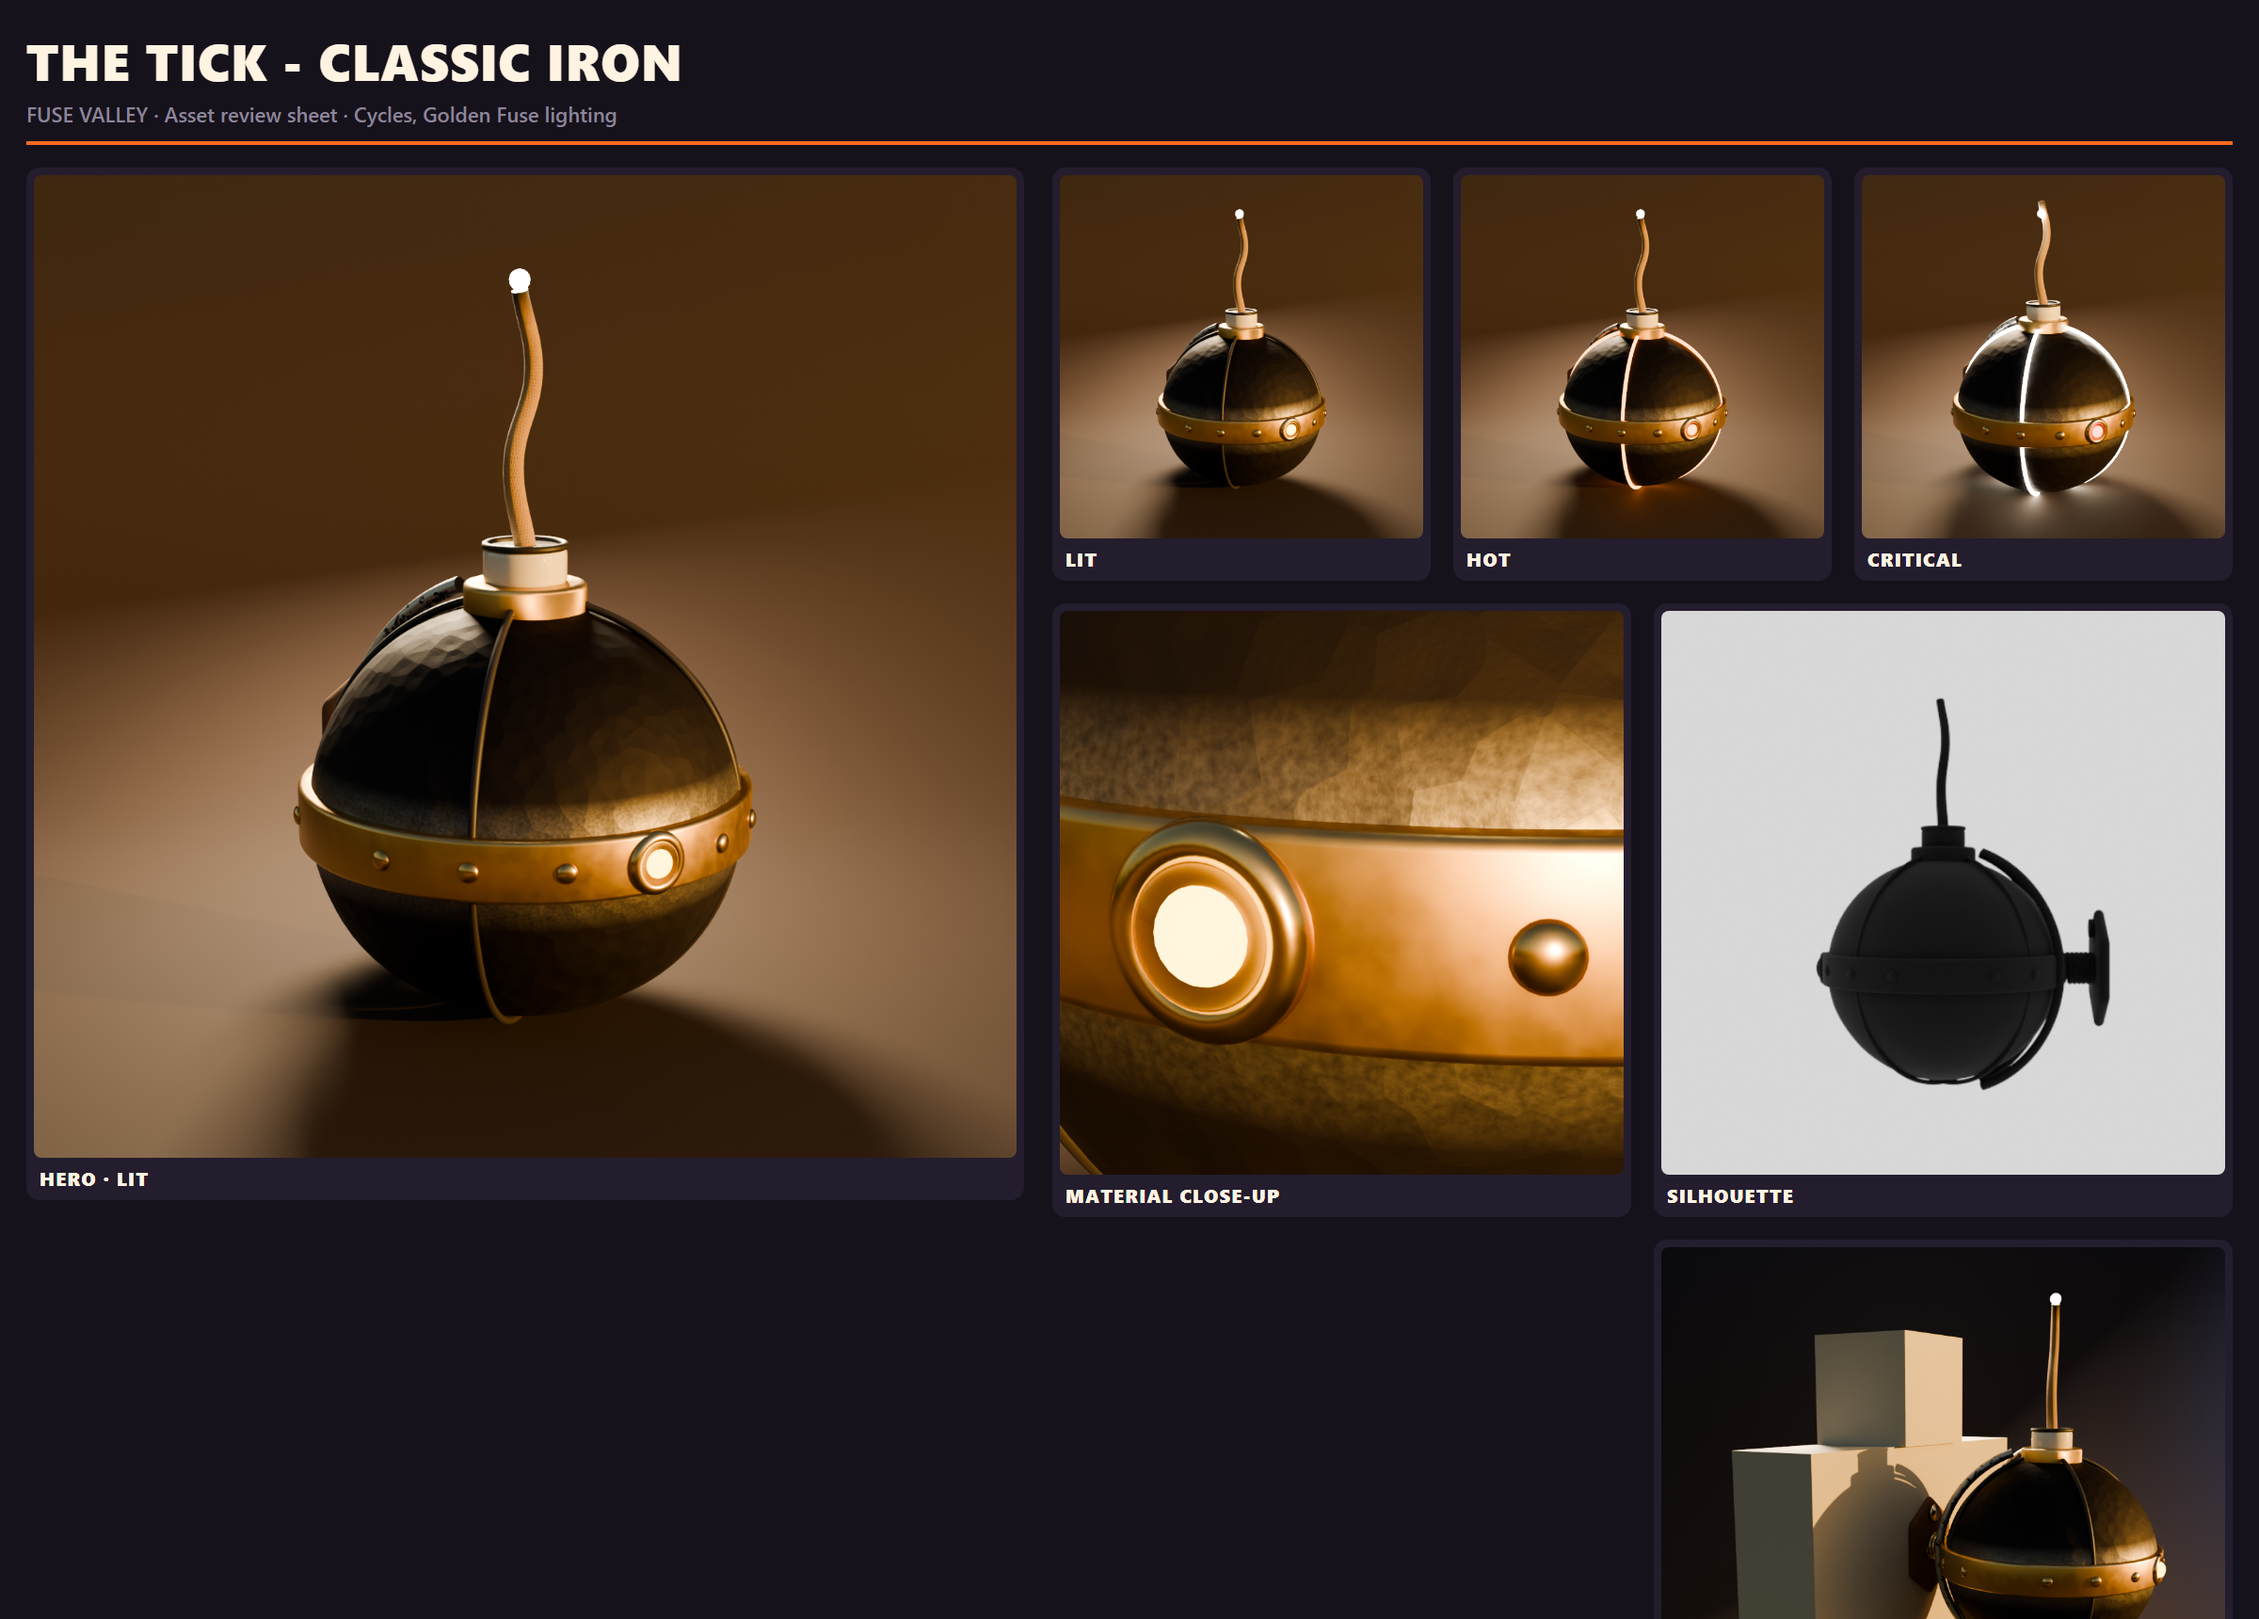
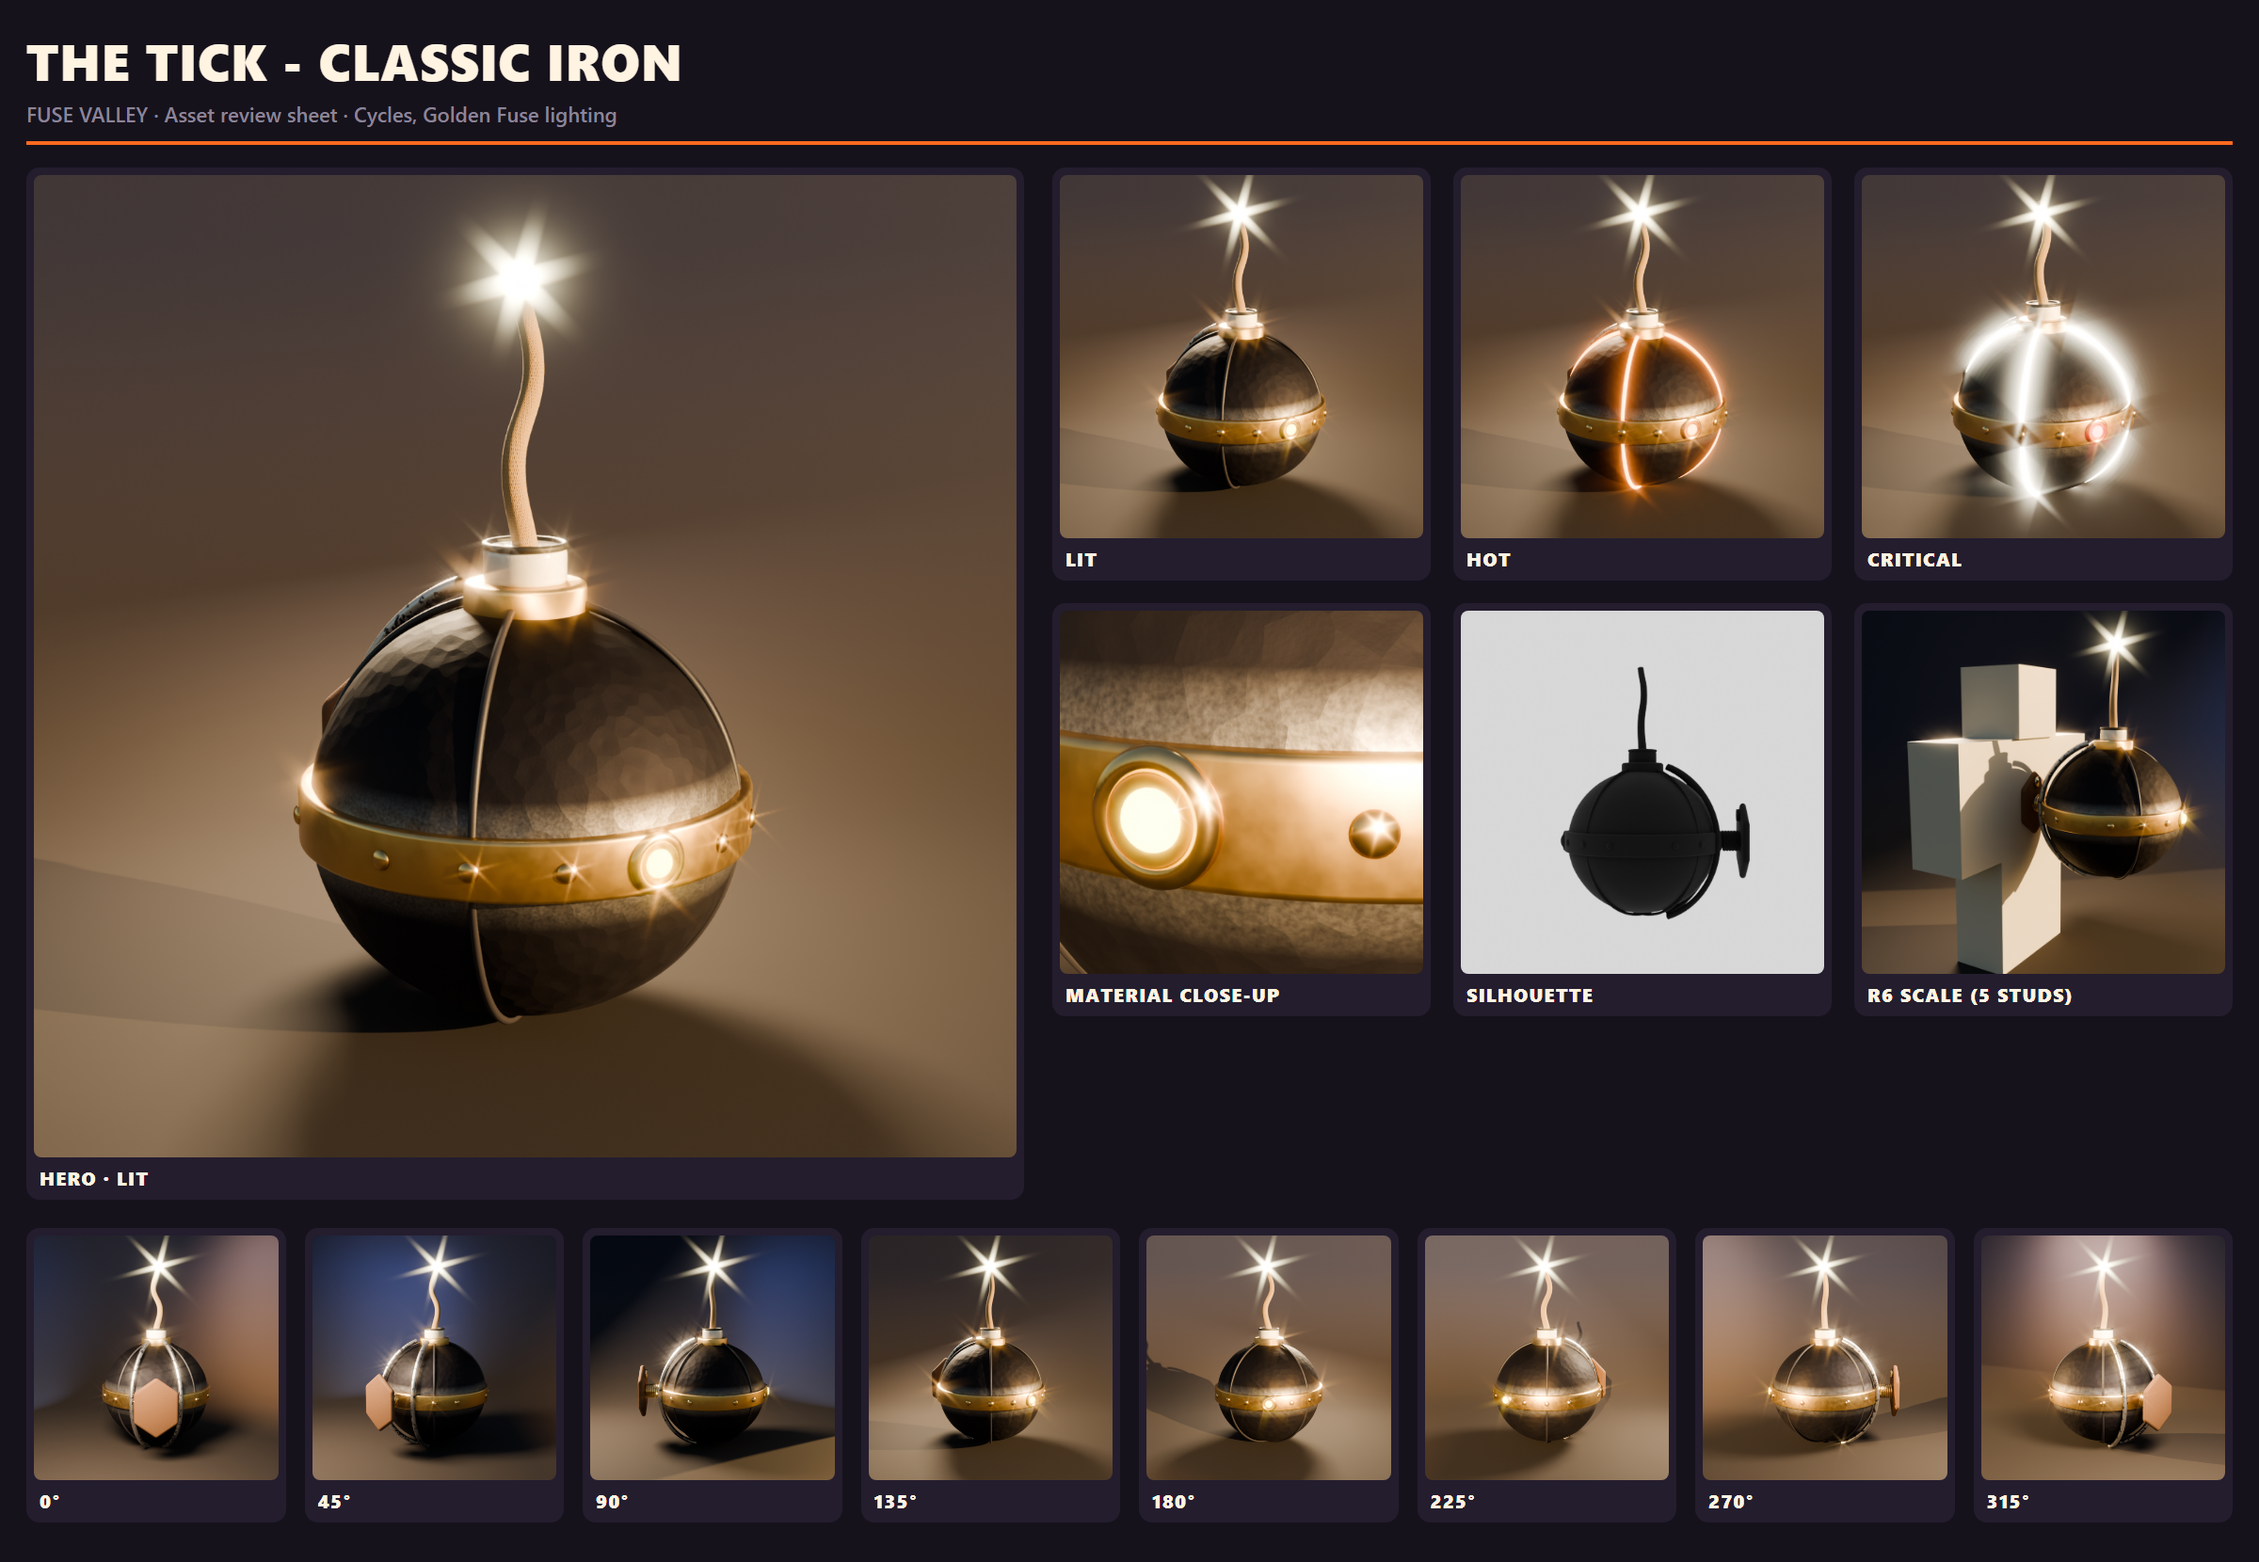
P3: hero bomb v3 renders (golden-hour sky reflections, cyclorama, star glint compositor, whole-assembly CRITICAL swell) + review sheet; Last Stand presentation

diff --git a/art/tools/sheet.py b/art/tools/sheet.py
@@ -21,7 +21,7 @@ CSS = """
 .t{background:#241D2E;border-radius:14px;padding:8px} .t img{width:100%;display:block;border-radius:8px}
 .t b{display:block;padding:8px 6px 2px;font-size:20px;letter-spacing:.06em}
 .stages{display:grid;grid-template-columns:repeat(3,1fr);gap:24px}
-.mid{display:grid;grid-template-columns:1fr 1fr;gap:24px;margin-top:24px;align-items:start} .mid:last-child{grid-template-columns:1fr}
+.mid{display:grid;grid-template-columns:repeat(3,1fr);gap:24px;margin-top:24px;align-items:start}
 .side{display:grid;gap:24px}
 .turn{display:grid;grid-template-columns:repeat(8,1fr);gap:20px;margin-top:30px}
 """
@@ -43,7 +43,7 @@ def main():
 <h1>{title.upper()}</h1><div class="sub">FUSE VALLEY · Asset review sheet · Cycles, Golden Fuse lighting</div><div class="bar"></div>
 <div class="grid"><div class="side">{tile(img("hero"), "HERO · LIT")}</div>
 <div><div class="stages">{tile(img("stage_LIT"), "LIT")}{tile(img("stage_HOT"), "HOT")}{tile(img("stage_CRITICAL"), "CRITICAL")}</div>
-<div class="mid">{tile(img("detail"), "MATERIAL CLOSE-UP")}<div class="side">{tile(img("silhouette"), "SILHOUETTE")}</div></div><div class="mid">{tile(img("scale_r6"), "R6 SCALE (5 STUDS)")}</div></div></div>
+<div class="mid">{tile(img("detail"), "MATERIAL CLOSE-UP")}{tile(img("silhouette"), "SILHOUETTE")}{tile(img("scale_r6"), "R6 SCALE (5 STUDS)")}</div></div></div>
 <div class="turn">{"".join(tile(img(f"turn_{a:03d}"), f"{a}°") for a in range(0, 360, 45))}</div>
 </div></body></html>"""
     out_html = folder / "contact_sheet.html"
@@ -58,7 +58,7 @@ def main():
     png = folder / "contact_sheet.png"
     profile = Path(tempfile.gettempdir()) / f"edgesheet_{uuid.uuid4().hex}"
     subprocess.run(
-        [edge, "--headless=new", "--disable-gpu", "--hide-scrollbars", f"--user-data-dir={profile}", "--window-size=2400,2480",
+        [edge, "--headless=new", "--disable-gpu", "--hide-scrollbars", f"--user-data-dir={profile}", "--window-size=2400,1660",
          "--virtual-time-budget=8000", "--allow-file-access-from-files", f"--screenshot={png}", out_html.as_uri()],
         check=False,
         timeout=120,
